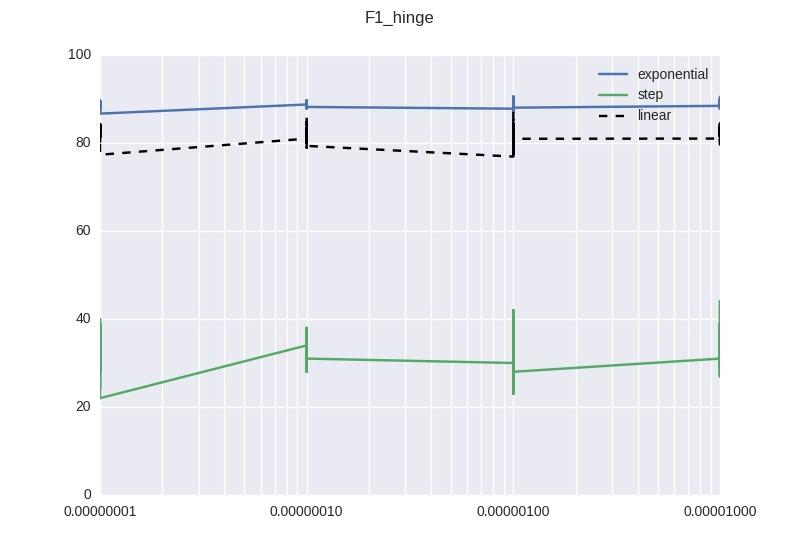
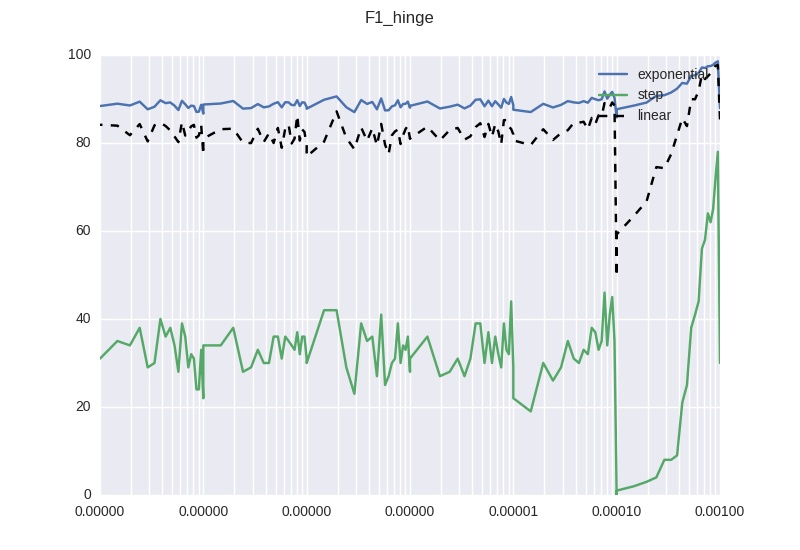
costs for bootstraps done

diff --git a/src/cost/results.py b/src/cost/results.py
@@ -10,7 +10,7 @@ from pylab import *
 import matplotlib.patches as mpatches
 from matplotlib.ticker import OldScalarFormatter
 from matplotlib.ticker import ScalarFormatter 
-
+from bootstraps import bootstrap 
 def check(x):
 	if x == 0:
 		return "F1"
@@ -33,7 +33,7 @@ def write():
 	with open("cost.csv", 'w') as out:
 		csv_out = csv.writer(out)
 		##csv_out.writerow(('loss type','trail number','F1 max', 'F1 min', 'Accuracy max', 'Accuracy min','Precision max','Precision min','Recall max','Recall min'))
-		for loss_type in loss_types:
+		for loss_types in loss_types:
 			dirc = '../../output/irony/CL/' + loss_type + '/MAX/'
 			files = os.listdir(dirc)
 			files.remove('results')
@@ -91,6 +91,7 @@ def cost_function_graphs():
 		cost_reader = csv.reader(cost_file, delimiter=',', quotechar='|')
 		loss_types = ['log','hinge']
 		for loss_num, loss_type in enumerate(loss_types):
+			bootstraps_t = bootstrap()
 			alpha_values = []
 			path = '../../output/irony/CL/' + loss_type + '/MAX/'
 			trails_files = os.listdir(path)
@@ -110,8 +111,9 @@ def cost_function_graphs():
 				alpha_trails = [trails_file + alpha_trail for alpha_trail in alpha_trails]
 				for n, alpha_trail in enumerate(alpha_trails):
 					alpha_value = alpha_trail.split('/')[8]
+					alpha_value = float(alpha_value.split(".csv")[0])
 					alpha_values.append(alpha_value)
-					cost_function_i.next()
+					#print alpha_value, 'av'
 					#print n,cost_function_i.cost_index
 					with open(alpha_trail, 'r') as f:
 						trail_reader = csv.reader(f, delimiter=' ', quotechar='|')
@@ -119,57 +121,62 @@ def cost_function_graphs():
 						for row in trail_reader:
 							if counter != 0:
 								f, a, p, r = row[0].split(',')
-								cost_function_i.add_values([float(f),float(a),float(p),float(r)])
-								cost_function_i.calculate_current_cost([])
+								f,a,p,r = cost_function_i.calculate_current_cost([float(f),float(a),float(p),float(r)])
+								bootstraps_t.add([f,a,p,r],alpha_value)
+								counter +=1
 							else:
 								counter = 1
-					cost_function_i.calculate()
+						#print len(bootstraps_t.get(alpha_value)), alpha_value,loss_type,alpha_trail
+					
 			trail_nums = range(20*6*loss_num,20*6*(loss_num+1))
 			#print cost_function_i.cost_index
-			alpha_values = [float(a.split(".csv")[0]) for a in alpha_values]
+			#alpha_values = [float(a.split(".")[0]) for a in alpha_values]
 			metrics = range(3,-1,-1)
-			for metric in metrics:
-				costs = []
-				costs = [cost_function_i.get_cost(trail_num,metric) for trail_num in trail_nums]
-				costs = np.array(costs)
-				#costs = [cost/100 for cost in costs]
-				alpha_values = np.array(alpha_values)
-				print len(alpha_values), costs[:,0].size
-				np.set_printoptions(suppress=True)
-				P.figure()
-				f, axf = P.subplots(squeeze=False)
-				P.suptitle(check(metric) + "_" + LT(loss_num))
-				P.plot(alpha_values,costs[:,0], label='exponential')
-				P.plot(alpha_values,costs[:,1],label='step')
-				P.plot(alpha_values,costs[:,2],label='linear',linestyle='--',color='black')
-				#P.xticks(range(120), alpha_values[0:10], size='small')
-				#gca().xaxis.set_major_formatter(OldScalarFormatter())
-				#ax = gca() 
-				xscale('log') 
-				ax = gca().xaxis 
-				ax.set_major_formatter(ScalarFormatter()) 
-				P.legend()
-				#P.xlim([0,100])
-				#P.ylim([0, .4])
-				ax = gca().xaxis 
+			ks = range(0,6)
+			for k in ks:
+				for x in range(0,4):
+					num_vals = range(0,120)
+					num = 5
+					f, axf 		= P.subplots(5,4,figsize=(16,16),sharex='all',sharey='all',squeeze=True)
+					P.suptitle(check(x))
+					P.tight_layout()
+					sns.set_context("paper")
+					P.xlim([0,1])
+					count = 0
+					for y in num_vals[20*k:20*(k+1)]:
+						#cv = crossv.run(Alpha_vals[y],vote_type,loss_type)
+						cu = bootstraps_t.get(alpha_values[y])
+						cu = np.array(cu)
+						#print cu.shape,cu.
+						if np.min(cu) < 0:
+							print np.min(cu)
+						if np.max(cu) > 1:
+							print np.max(cu)
+						cu = cu[0:100,x]
+						#print 'y =',y,'min value = ', np.min(cu),'max value = ', np.max(cu),'mean =', now_mean[y]
+						#print "y=",y,"count=",count,"x=",x,"x*y",x*y
 
-				outp = "pics/" + str(check(metric)) + '__' + LT(loss_num) + ".jpg"
-				P.savefig(outp)
-				P.close(outp)
-				#P.flush()
+						#cost_trail = cost_function_i.get_cost(y)
+						sns.kdeplot(cu,ax=axf[count%num][count/num]) # throwing an error at 12?
+						axf[count%num][count/num].set_title("C="+"%3.4g" % (float(alpha_values[y])**-1))
+						'''
+						axf[y%num][y/num].axvline(now_mean[y], ls="--", linewidth=1.5)
+						axf[y%num][y/num].axvline(cv[x], ls="--", linewidth=25,color="red")
+						axf[y%num][y/num].axvline(now_precent[y][0], ls="-", linewidth=1.25,color="black")
+						axf[y%num][y/num].axvline(now_precent[y][1], ls="-", linewidth=1.25,color="black")
+						axf[y%num][y/num].set_title("C="+"%3.4g" % (float(Alpha_vals[y])**-1))
 
-
-
-
-
-
-
-
-
-
-
-
-
+						text = '$\mu=%.2f$\n(%.2f,%.2f)'%(float(now_mean[y]), float(now_precent[y][0]),float(now_precent[y][1]))
+						props = dict(boxstyle='round', facecolor='wheat', alpha=0.5)
+						axf[y%num][y/num].text(0.05, 0.95, text, transform=axf[y%num][y/num].transAxes, fontsize=12,
+						verticalalignment='top', bbox=props)
+						'''
+						#print 'Done!'
+						#axf[y%5][y/5].set_title("C="+str(Alpha_vals[y]))
+						count +=1
+					out =  "results/" + str(k+1) + '_'+str(check(x)) + '__' + LT(loss_num) + ".jpg"
+					P.savefig(out)
+					P.close(out)
 
 
 if __name__ == "__main__":

diff --git a/src/cost/cost_function.py b/src/cost/cost_function.py
@@ -52,3 +52,18 @@ class cost_function:  # test cost for only recall now
                 c[1] += 0
                 c[2] += (1 / (float(m[1]) - float(m[0]))
                          * (float(v) - float(m[1])) + 1)
+    def calculate_current_cost(self,value):
+        ret_vals = []
+        for v,m in zip(value, self.min_max):
+            if float(v) > float(m[0]):
+                ret_vals.append(0)
+            elif float(v) < float(m[1]):
+                ret_vals.append(0)
+            else:
+                ret_vals.append(math.exp(float(v) * -1))
+        return ret_vals
+
+
+
+
+

diff --git a/src/cost/bootstraps.py b/src/cost/bootstraps.py
@@ -1,0 +1,23 @@
+import numpy
+
+class bootstrap:
+
+	def __init__(self):
+		self.alpha_values = {}
+
+	def add(self,values,alpha):
+		if alpha in self.alpha_values and len(self.alpha_values[alpha]) >= 100:
+			pass
+
+		if alpha in self.alpha_values:
+			self.alpha_values[alpha].append(values)
+		else:
+			self.alpha_values[alpha] = [values]
+	def get(self,alpha):
+		return self.alpha_values[alpha]
+
+
+
+
+
+

diff --git a/src/results/results.py b/src/results/results.py
@@ -113,7 +113,7 @@ for loss_type in loss_types:
 				num_vals = range(0,20)
 				now 		= All[x]
 				num = 5
-				f, axf 		= P.subplots(5,4,figsize=(16,16),sharex='all',sharey='all',squeeze=False)
+				f, axf 		= P.subplots(5,4,figsize=(16,16),sharex='all',sharey='all',squeeze=True)
 				P.suptitle(check(x))
 				P.tight_layout()
 				sns.set_context("paper")
